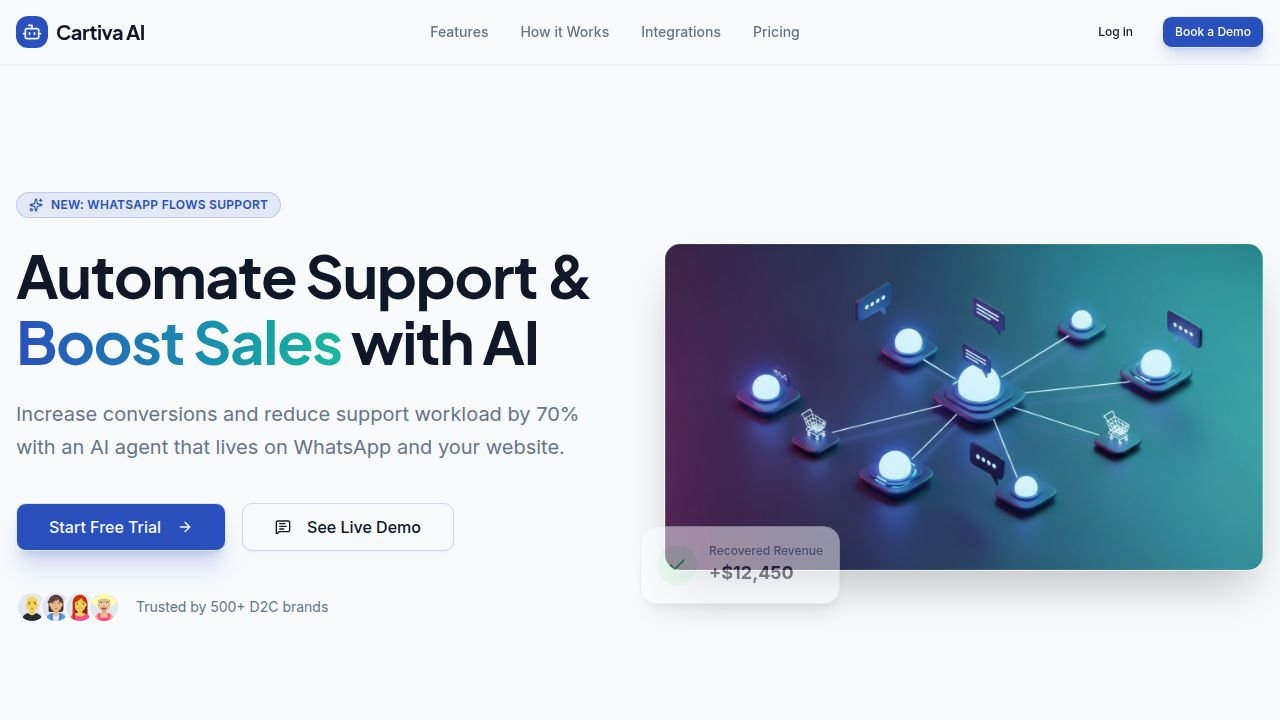
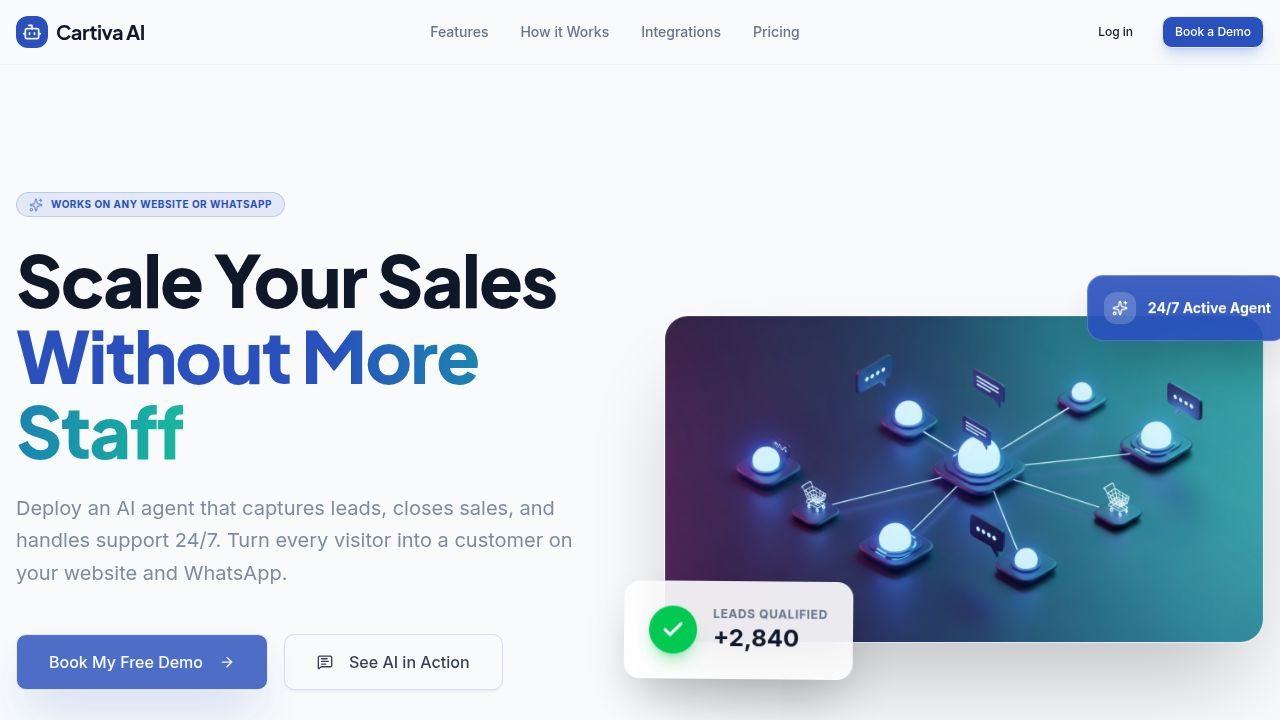
Improve website copy and product positioning for AI sales agent
Update website copy to position Cartiva AI as a universal AI sales and support agent, enhancing its appeal to a wider range of businesses and refining feature descriptions and CTAs.

Replit-Commit-Author: Agent
Replit-Commit-Session-Id: de65c189-afa9-48da-b940-391796c6f1a7
Replit-Commit-Checkpoint-Type: full_checkpoint
Replit-Commit-Event-Id: 20cf16c0-025c-4911-894d-164c0616593c
Replit-Commit-Screenshot-Url: https://storage.googleapis.com/screenshot-production-us-central1/7514b0fd-424f-42f4-a3ec-7a9a40972ffb/de65c189-afa9-48da-b940-391796c6f1a7/V3KmZhA
Replit-Helium-Checkpoint-Created: true

diff --git a/client/src/components/Hero.tsx b/client/src/components/Hero.tsx
@@ -37,12 +37,12 @@ export function Hero() {
               className="inline-flex items-center gap-2 px-3 py-1 rounded-full bg-primary/10 text-primary w-fit border border-primary/20"
             >
               <Sparkles size={14} className="animate-pulse" />
-              <span className="text-[10px] font-bold uppercase tracking-wider">Setup in under 10 minutes</span>
+              <span className="text-[10px] font-bold uppercase tracking-wider">Works on any website or WhatsApp</span>
             </motion.div>
             
             <h1 className="text-5xl md:text-6xl lg:text-7xl font-heading font-extrabold leading-[1.05] text-foreground tracking-tight">
-              Scale Your Brand <br />
-              <span className="text-transparent bg-clip-text bg-gradient-to-r from-primary via-primary to-accent animate-gradient-x">Without Scaling Support</span>
+              Scale Your Sales <br />
+              <span className="text-transparent bg-clip-text bg-gradient-to-r from-primary via-primary to-accent animate-gradient-x">Without More Staff</span>
             </h1>
             
             <motion.p 
@@ -51,7 +51,7 @@ export function Hero() {
               transition={{ delay: 0.4, duration: 0.8 }}
               className="text-lg md:text-xl text-muted-foreground leading-relaxed max-w-xl"
             >
-              Turn WhatsApp into your highest-converting sales channel. Automate 70% of support and recover abandoned carts with an AI agent built for Shopify.
+              Deploy an AI agent that captures leads, closes sales, and handles support 24/7. Turn every visitor into a customer on your website and WhatsApp.
             </motion.p>
 
             <motion.div 
@@ -61,12 +61,12 @@ export function Hero() {
               className="flex flex-col sm:flex-row gap-4 mt-4"
             >
               <Button size="lg" className="h-14 px-8 text-base bg-primary hover:bg-primary/90 shadow-2xl shadow-primary/30 group">
-                Book My Demo
+                Book My Free Demo
                 <ArrowRight className="ml-2 h-4 w-4 transition-transform group-hover:translate-x-1" />
               </Button>
               <Button size="lg" variant="outline" className="h-14 px-8 text-base border-primary/20 hover:bg-primary/5 group">
                 <MessageSquareText className="mr-2 h-4 w-4 transition-transform group-hover:scale-110" />
-                See Live Examples
+                See AI in Action
               </Button>
             </motion.div>
             
@@ -89,7 +89,7 @@ export function Hero() {
                   </motion.div>
                 ))}
               </div>
-              <p className="font-medium text-foreground">Trusted by <span className="font-bold">500+</span> Shopify store owners</p>
+              <p className="font-medium text-foreground">Trusted by <span className="font-bold">500+</span> growing businesses</p>
             </motion.div>
           </motion.div>
 
@@ -102,7 +102,7 @@ export function Hero() {
             <div className="relative rounded-3xl overflow-hidden shadow-[0_50px_100px_-20px_rgba(0,0,0,0.25)] border border-white/20 bg-white/5 backdrop-blur-sm group">
               <img 
                 src={heroImage} 
-                alt="AI Sales & Support Platform" 
+                alt="Universal AI Sales Agent" 
                 className="w-full h-auto object-cover transform group-hover:scale-110 transition-transform duration-[2s] ease-out"
               />
               <div className="absolute inset-0 bg-gradient-to-tr from-primary/30 to-transparent mix-blend-overlay pointer-events-none" />
@@ -125,8 +125,8 @@ export function Hero() {
                 <svg width="24" height="24" viewBox="0 0 24 24" fill="none" stroke="currentColor" strokeWidth="3" strokeLinecap="round" strokeLinejoin="round"><polyline points="20 6 9 17 4 12"></polyline></svg>
               </div>
               <div>
-                <p className="text-xs text-muted-foreground font-bold uppercase tracking-wider">Revenue Recovered</p>
-                <p className="text-2xl font-black text-foreground">+$12,450</p>
+                <p className="text-xs text-muted-foreground font-bold uppercase tracking-wider">Leads Qualified</p>
+                <p className="text-2xl font-black text-foreground">+2,840</p>
               </div>
             </motion.div>
 
@@ -147,7 +147,7 @@ export function Hero() {
               <div className="w-8 h-8 rounded-lg bg-white/20 flex items-center justify-center">
                 <Sparkles size={16} />
               </div>
-              <p className="text-sm font-bold">70% Support Automated</p>
+              <p className="text-sm font-bold">24/7 Active Agent</p>
             </motion.div>
           </motion.div>
         </div>

diff --git a/client/src/pages/HowItWorks.tsx b/client/src/pages/HowItWorks.tsx
@@ -1,42 +1,42 @@
 import { motion } from "framer-motion";
 import { Link } from "wouter";
-import { Check, Store, MessageSquare, Rocket, ArrowRight } from "lucide-react";
+import { Check, Globe, MessageSquare, Rocket, ArrowRight } from "lucide-react";
 import { Navbar } from "@/components/Navbar";
 import { Footer } from "@/components/Footer";
 import { Button } from "@/components/ui/button";
 
 const steps = [
   {
-    icon: <Store className="w-8 h-8" />,
-    title: "Connect Your Store",
-    description: "Plug-and-play integration with Shopify. Sync your products, orders, and customer data in one click.",
+    icon: <Globe className="w-8 h-8" />,
+    title: "Connect Your Website",
+    description: "Plug-and-play integration for any website. Whether it's Shopify, WooCommerce, or a custom build, sync your data in one click.",
     details: [
-      "Secure OAuth connection",
-      "Real-time inventory sync",
-      "Order history indexing",
-      "Automated catalog mapping"
+      "Works on any platform",
+      "Real-time data sync",
+      "Automatic content indexing",
+      "Secure API connection"
     ]
   },
   {
     icon: <MessageSquare className="w-8 h-8" />,
-    title: "Configure AI Agent",
-    description: "Customize your agent's personality, knowledge base, and automated workflows.",
+    title: "Customize Your AI Agent",
+    description: "Train your agent on your knowledge base and define its personality to match your brand's unique voice.",
     details: [
-      "Custom brand voice",
-      "FAQ training with 1-click",
+      "Custom brand personality",
+      "Instant FAQ training",
       "WhatsApp & Web Chat setup",
-      "Refund & Return rules"
+      "Lead qualification rules"
     ]
   },
   {
     icon: <Rocket className="w-8 h-8" />,
-    title: "Go Live & Scale",
-    description: "Activate your AI agent and watch it handle 70% of conversations while you focus on growth.",
+    title: "Go Live & Scale Revenue",
+    description: "Activate your agent and watch it handle 70% of conversations while proactively closing sales and capturing leads.",
     details: [
       "Instant response times",
-      "Abandoned cart recovery",
+      "Automated lead capture",
       "Multilingual support",
-      "Revenue tracking dashboard"
+      "Full ROI dashboard"
     ]
   }
 ];
@@ -54,10 +54,10 @@ export default function HowItWorks() {
             className="text-center max-w-3xl mx-auto mb-20"
           >
             <h1 className="text-4xl md:text-5xl lg:text-6xl font-heading font-bold mb-6 tracking-tight">
-              Get started in <span className="text-primary">minutes</span>
+              From Setup to <span className="text-primary">Sales</span> in 10 Minutes
             </h1>
             <p className="text-xl text-muted-foreground leading-relaxed">
-              No complex coding or months of training. Cartiva AI is built to work out of the box for modern D2C brands.
+              No technical team or complex coding required. Cartiva AI is built to deliver immediate results for websites and WhatsApp-first businesses.
             </p>
           </motion.div>
 
@@ -119,17 +119,17 @@ export default function HowItWorks() {
             <div className="absolute bottom-0 left-0 w-64 h-64 bg-accent/10 blur-[100px] rounded-full" />
             
             <div className="relative z-10 space-y-8">
-              <h2 className="text-3xl md:text-4xl font-heading font-bold">Ready to see it in action?</h2>
+              <h2 className="text-3xl md:text-4xl font-heading font-bold">Ready to Automate Your Success?</h2>
               <p className="text-slate-400 text-lg max-w-xl mx-auto">
-                Connect your Shopify store today and see the first automated conversations within 10 minutes.
+                Join 500+ businesses using Cartiva AI to grow revenue and scale support without increasing headcount.
               </p>
               <div className="flex flex-col sm:flex-row gap-4 justify-center">
                 <Button size="lg" className="h-14 px-8 text-lg bg-primary hover:bg-primary/90">
-                  Book a Demo
+                  Book My Free Demo
                   <ArrowRight className="ml-2 h-5 w-5" />
                 </Button>
                 <Button size="lg" variant="outline" className="h-14 px-8 text-lg border-white/10 hover:bg-white/5">
-                  View Case Studies
+                  See Case Studies
                 </Button>
               </div>
             </div>

diff --git a/client/src/components/Features.tsx b/client/src/components/Features.tsx
@@ -5,39 +5,41 @@ import {
   RefreshCw, 
   TrendingUp, 
   Languages, 
-  Clock 
+  Zap,
+  Target,
+  Clock
 } from "lucide-react";
 
 const features = [
   {
     icon: <MessageCircle className="w-6 h-6" />,
-    title: "Instant AI Responses",
-    description: "Reply to customers in seconds on WhatsApp and Web Chat. 24/7 coverage for FAQs, status, and sales."
+    title: "24/7 Instant Engagement",
+    description: "Reply to every query instantly on WhatsApp and your website. Never lose a lead to slow response times again."
   },
   {
-    icon: <RefreshCw className="w-6 h-6" />,
-    title: "Automated Returns & Tracking",
-    description: "Deflect 70% of support tickets by automating order tracking, return requests, and refund status."
-  },
-  {
-    icon: <ShoppingBag className="w-6 h-6" />,
-    title: "Cart Recovery on WhatsApp",
-    description: "Automatically message customers on WhatsApp to recover lost sales and boost conversion rates."
+    icon: <Target className="w-6 h-6" />,
+    title: "Lead Qualification AI",
+    description: "Automatically qualify leads, book meetings, and capture data. Focus your team's time only on high-value prospects."
   },
   {
     icon: <TrendingUp className="w-6 h-6" />,
-    title: "Smart Upsell Agent",
-    description: "Let AI recommend products based on chat history to increase your Average Order Value (AOV)."
+    title: "Sales & Upsell Automation",
+    description: "Close more sales with an AI that proactively recommends products and recovers abandoned carts via WhatsApp."
   },
   {
-    icon: <Languages className="w-6 h-6" />,
-    title: "Hindi & English Support",
-    description: "Built for Indian D2C brands. Native support for English, Hindi, and regional dialects."
+    icon: <RefreshCw className="w-6 h-6" />,
+    title: "Smart Support Deflection",
+    description: "Automate up to 70% of repetitive questions, order tracking, and service requests without hiring more staff."
   },
   {
-    icon: <Clock className="w-12 h-12" />,
+    icon: <Zap className="w-6 h-6" />,
+    title: "Universal Integration",
+    description: "Works on any website—Shopify, WooCommerce, custom builds, or service pages. Setup in under 10 minutes."
+  },
+  {
+    icon: <Clock className="w-6 h-6" />,
     title: "Plug-and-Play Setup",
-    description: "Connect your Shopify store and go live in under 10 minutes. No technical team required."
+    description: "Simply connect your data and go live. No complex coding, no technical jargon, just immediate results."
   }
 ];
 
@@ -75,9 +77,9 @@ export function Features() {
           transition={{ duration: 0.6 }}
           className="text-center max-w-3xl mx-auto mb-16"
         >
-          <h2 className="text-3xl md:text-4xl font-heading font-bold mb-4 tracking-tight">Everything You Need to Scale Fast</h2>
+          <h2 className="text-3xl md:text-4xl font-heading font-bold mb-4 tracking-tight">Built for Maximum Conversion</h2>
           <p className="text-lg text-muted-foreground leading-relaxed">
-            Cartiva AI replaces manual tasks with intelligent automation, turning your support team into a revenue engine.
+            Cartiva AI is your all-in-one agent for sales, lead capture, and instant support—designed to grow your revenue around the clock.
           </p>
         </motion.div>
 

diff --git a/client/src/components/DashboardPreview.tsx b/client/src/components/DashboardPreview.tsx
@@ -20,7 +20,7 @@ export function DashboardPreview() {
             >
                <img 
                 src={dashboardImage} 
-                alt="AI Sales Dashboard" 
+                alt="AI Performance Dashboard" 
                 className="w-full h-auto rounded-lg"
               />
               <div className="absolute inset-0 bg-gradient-to-t from-primary/10 to-transparent pointer-events-none" />
@@ -40,7 +40,7 @@ export function DashboardPreview() {
               viewport={{ once: true }}
               className="text-3xl md:text-4xl font-heading font-bold mb-6 tracking-tight"
             >
-              Real-Time ROI Tracking
+              Monitor Every Sale & Interaction
             </motion.h2>
             <motion.p 
               initial={{ opacity: 0, y: 20 }}
@@ -49,15 +49,15 @@ export function DashboardPreview() {
               transition={{ delay: 0.1 }}
               className="text-lg text-muted-foreground mb-8 leading-relaxed"
             >
-              Stop guessing. See exactly how many sales your AI agent is closing and how many support hours it's saving your team every day.
+              Gain complete transparency with our real-time ROI dashboard. Track exactly how many leads your AI has captured and the revenue it has influenced.
             </motion.p>
 
             <ul className="space-y-4">
               {[
-                "Track automated sales & recovered revenue",
-                "Monitor 24/7 resolution rates & response times",
-                "Measure customer sentiment on every chat",
-                "Calculate total support cost savings instantly"
+                "Track automated sales & lead qualification rates",
+                "Monitor 24/7 engagement & response times",
+                "Analyze customer sentiment on every interaction",
+                "Measure total support cost savings & ROI"
               ].map((item, i) => (
                 <motion.li 
                   key={i}
